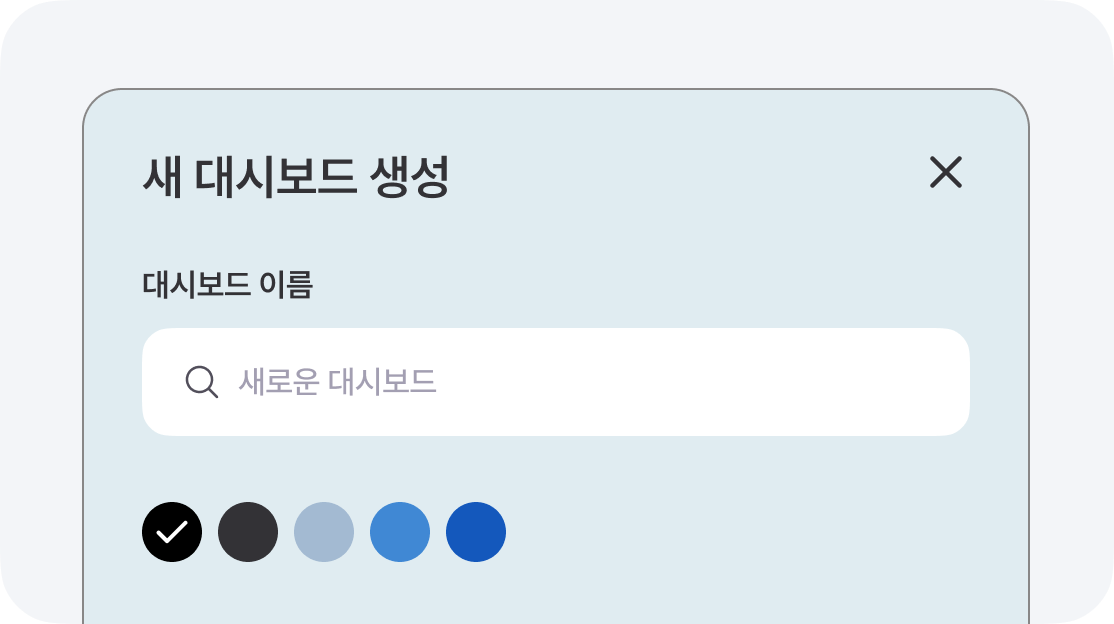
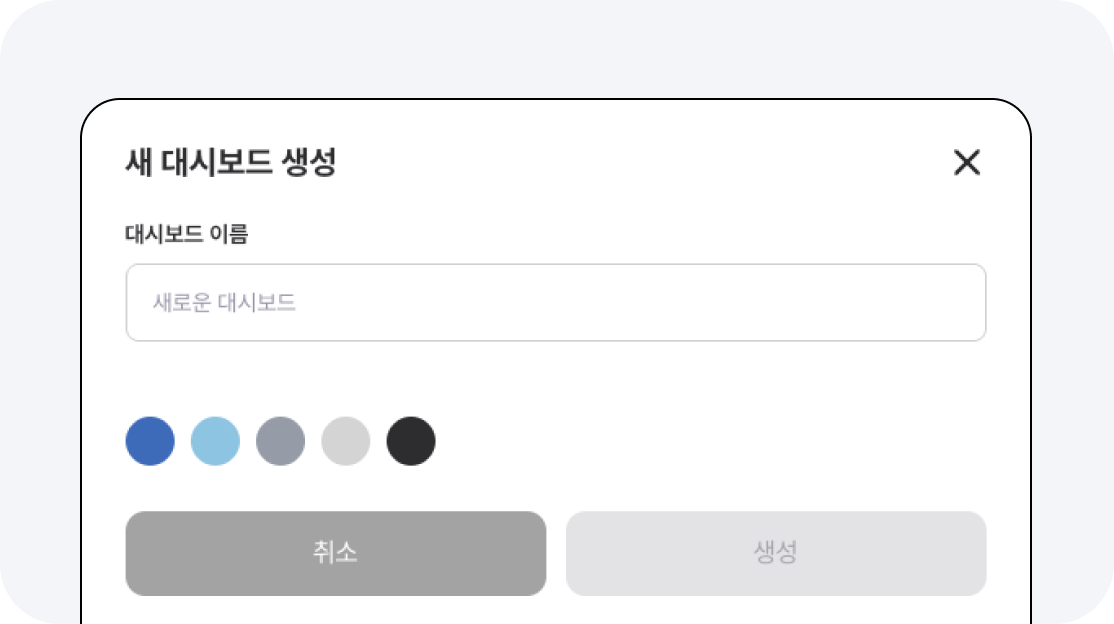
Merge pull request #148 from task-mates/feat/landing-update
feat: 랜딩페이지 이미지 변경

Pull request: feat: 랜딩페이지 이미지 변경
## 작업 내용
- 

## 관련된 이슈
- 

## 스크린샷(선택)

## 리뷰 요청 사항(선택)

diff --git a/src/components/layout/LandingFooter/styles.ts b/src/components/layout/LandingFooter/styles.ts
@@ -25,6 +25,17 @@ export const FtInner = styled.div`
 
 export const LogoBox = styled(Link)`
   display: block;
+  width: 186px;
+
+  img {
+    width: 100%;
+    height: 100%;
+    object-fit: cover;
+  }
+
+  @media ${DEVICE.tablet} {
+    width: 140px;
+  }
 `;
 
 export const InfoGroup = styled.div`
@@ -33,15 +44,20 @@ export const InfoGroup = styled.div`
   gap: 100px;
 
   @media ${DEVICE.mobile} {
-    flex-direction: column;
+    justify-content: space-between;
     align-items: flex-start;
     gap: 20px;
+    width: 100%;
   }
 `;
 
 export const FooterUtil = styled.div`
   display: flex;
   gap: 32px;
+
+  @media ${DEVICE.mobile} {
+    gap: 20px;
+  }
 `;
 
 export const FooterUtilLink = styled(Link)`

diff --git a/src/components/layout/LandingFooter/index.tsx b/src/components/layout/LandingFooter/index.tsx
@@ -1,7 +1,7 @@
 'use client';
 
 import GitHubIcon from '@/src/components/icons/icon-github.svg';
-import LogoIcon from '@/public/images/logo.svg';
+import Image from 'next/image';
 import * as S from './styles';
 
 export default function LandingFooter() {
@@ -9,7 +9,12 @@ export default function LandingFooter() {
     <S.Footer>
       <S.FtInner>
         <S.LogoBox href="/">
-          <LogoIcon />
+          <Image
+            src="/images/logo.svg"
+            alt="TASKIFY 로고"
+            width={186}
+            height={48}
+          />
         </S.LogoBox>
         <S.InfoGroup>
           <S.FooterUtil>

diff --git a/src/app/(public)/page.tsx b/src/app/(public)/page.tsx
@@ -29,8 +29,7 @@ export default function Home() {
         if (firstDashboardId) {
           router.replace(`/dashboard/${firstDashboardId}`);
         }
-      } catch {
-      }
+      } catch {}
     };
 
     moveToFirstDashboard();
@@ -56,7 +55,7 @@ export default function Home() {
 
             <S.ImageArea>
               <S.MockImage
-                src="/images/landing-dashboard.png"
+                src="/images/landing-intro.jpg"
                 alt="Taskify 대시보드 미리보기"
               />
             </S.ImageArea>
@@ -110,7 +109,7 @@ export default function Home() {
               </S.PointTextArea2>
               <S.PointImageArea2>
                 <S.PointImage
-                  src="/images/landing-todocard.png"
+                  src="/images/landing-modal.jpg"
                   alt="할 일 카드 미리보기"
                 />
               </S.PointImageArea2>

diff --git a/src/app/(public)/styles.ts b/src/app/(public)/styles.ts
@@ -124,6 +124,7 @@ const BaseButton = styled(Link)`
 
   @media ${DEVICE.mobile} {
     width: 150px;
+    font-size: 15px;
   }
 `;
 
@@ -138,10 +139,14 @@ export const LoginButton = styled(BaseButton)`
 export const ImageArea = styled.div`
   width: 60%;
   margin-right: -8%;
+  border: 1px solid var(--color-dashboard-darkgray);
+  border-radius: 30px;
+  overflow: hidden;
 
   @media ${DEVICE.tablet} {
     width: 90%;
     margin-right: -35%;
+    border-radius: 20px;
   }
 
   @media ${DEVICE.mobile} {

diff --git a/src/components/layout/LandingHeader/styles.ts b/src/components/layout/LandingHeader/styles.ts
@@ -58,4 +58,8 @@ export const UtilLink = styled(Link)`
   font-size: 16px;
   color: var(--color-text-dark);
   font-weight: 500;
+
+  @media ${DEVICE.mobile} {
+    padding: 6px;
+  }
 `;